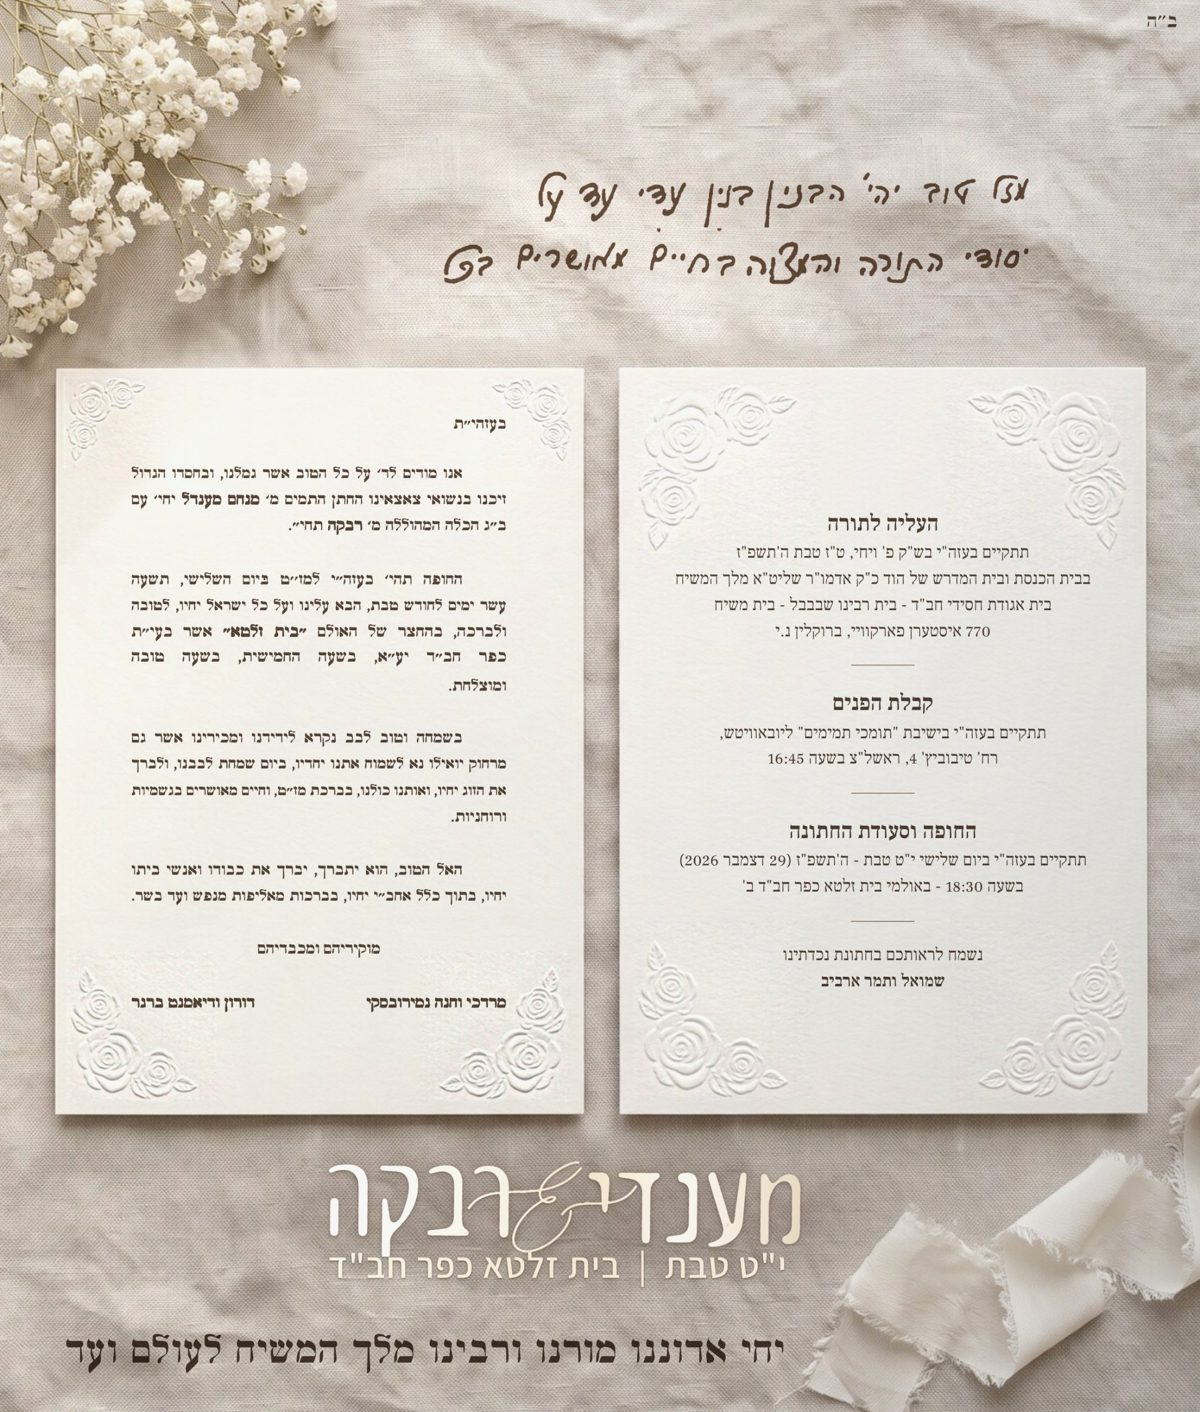
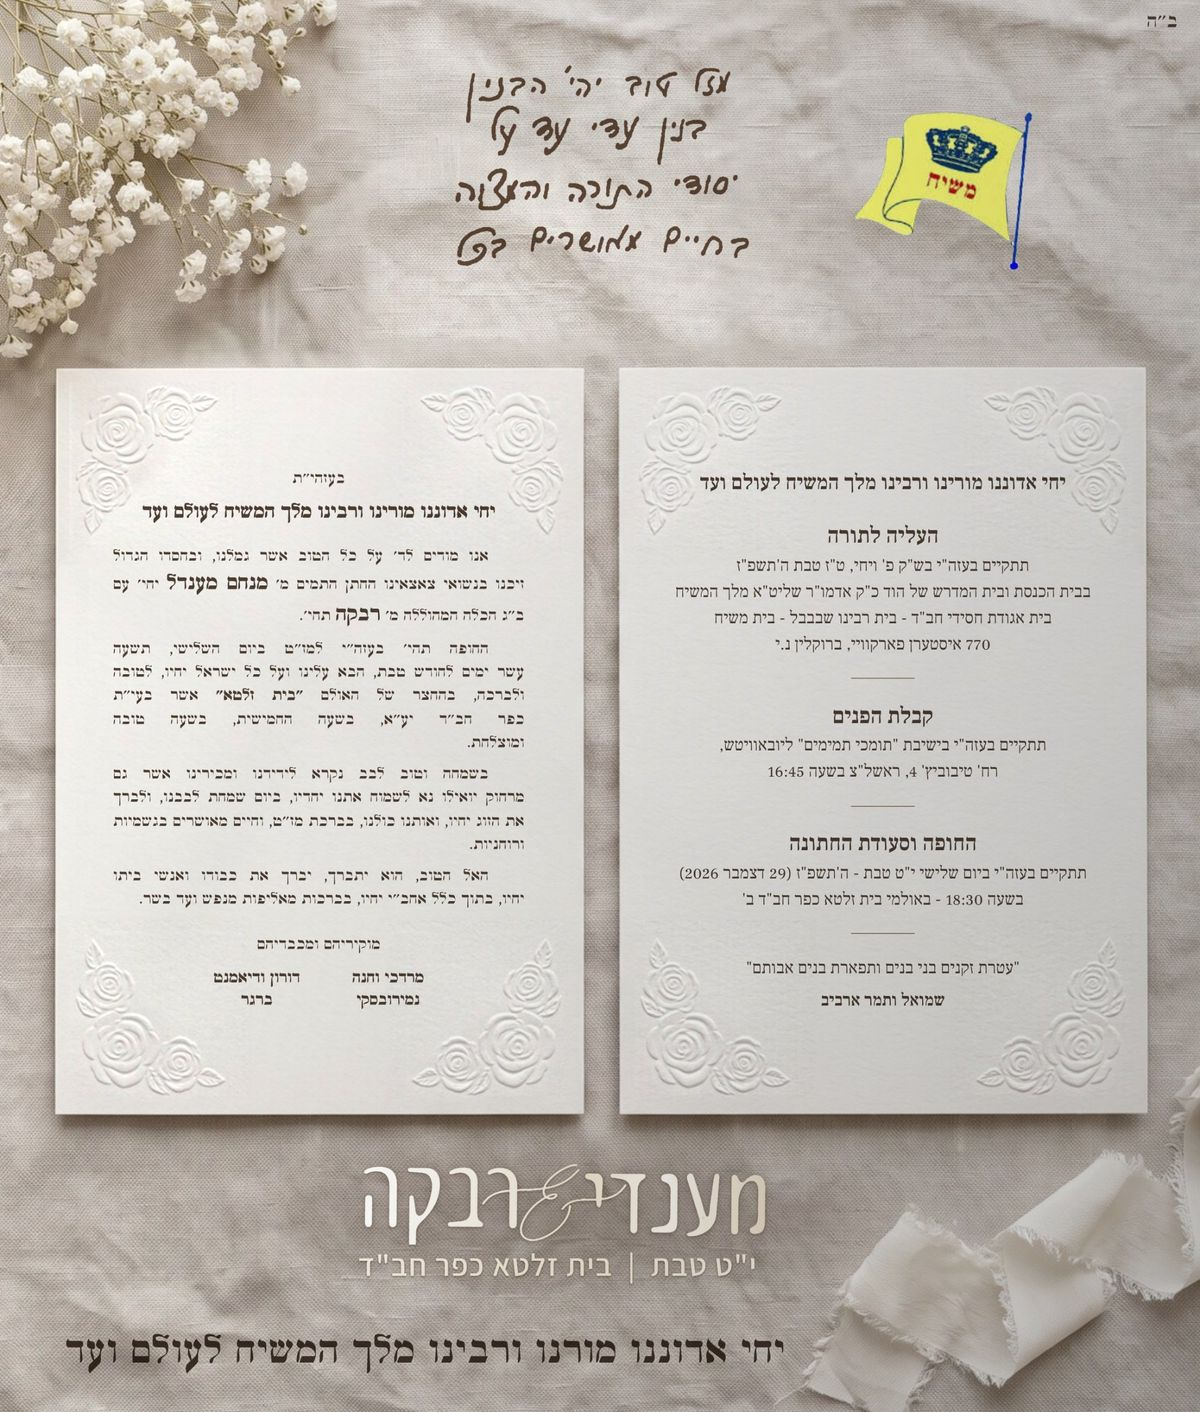
Updated invitation image (page + share preview)
Claude-Session: https://claude.ai/code/session_01UUGnTPbvLskfuD8Xfb7C9e

diff --git a/src/guest-rivka.html b/src/guest-rivka.html
@@ -267,7 +267,7 @@ textarea{width:100%;font-size:17px;border:1px solid var(--line);border-radius:14
 <section class="invsec">
   <h2 class="rv">ההזמנה</h2>
   <button class="invbtn rv" id="invOpen" type="button" aria-label="פתיחת ההזמנה בגדול">
-    <img src="/img/invitation.webp" alt="ההזמנה לחתונה של מענדי ורבקה" loading="lazy" width="1200" height="1411">
+    <img src="/img/invitation.webp?v=2" alt="ההזמנה לחתונה של מענדי ורבקה" loading="lazy" width="1200" height="1411">
   </button>
   <p class="parents2 rv">נשמח לראותכם בחתונת ילדינו<b>מרדכי וחנה נמירובסקי</b><b>דורון ודיאמנט ברגר</b></p>
 </section>
@@ -324,7 +324,7 @@ textarea{width:100%;font-size:17px;border:1px solid var(--line);border-radius:14
 
 <div class="lb" id="lb" hidden role="dialog" aria-modal="true" aria-label="ההזמנה">
   <button type="button" id="lbX">✕ סגירה</button>
-  <img src="/img/invitation.webp" alt="ההזמנה לחתונה של מענדי ורבקה">
+  <img src="/img/invitation.webp?v=2" alt="ההזמנה לחתונה של מענדי ורבקה">
 </div>
 
 <script>

diff --git a/src/index.js b/src/index.js
@@ -175,7 +175,7 @@ async function inviteImage(env) {
 async function guestPage(env, origin) {
   // עמוד אישור ההגעה של רבקה ומענדי (עיצוב לפי ההזמנה)
   const og = `<meta property="og:title" content="מענדי ורבקה · י״ט טבת"><meta property="og:description" content="נשמח שתאשרו הגעה לחתונה"><meta property="og:type" content="website">` +
-    `<meta property="og:image" content="${origin}/img/og.jpg"><meta property="og:image:type" content="image/jpeg"><meta property="og:image:width" content="900"><meta property="og:image:height" content="1059"><meta name="twitter:card" content="summary_large_image">`;
+    `<meta property="og:image" content="${origin}/img/og.jpg?v=2"><meta property="og:image:type" content="image/jpeg"><meta property="og:image:width" content="900"><meta property="og:image:height" content="1059"><meta name="twitter:card" content="summary_large_image">`;
   return html(RIVKA_PAGE.split('<!--OG-->').join(og).split('/*GUEST_JS*/').join(GUEST_JS));
 }
 function esc(s) { return String(s).replace(/[&<>"']/g, c => ({ '&': '&amp;', '<': '&lt;', '>': '&gt;', '"': '&quot;', "'": '&#39;' }[c])); }
